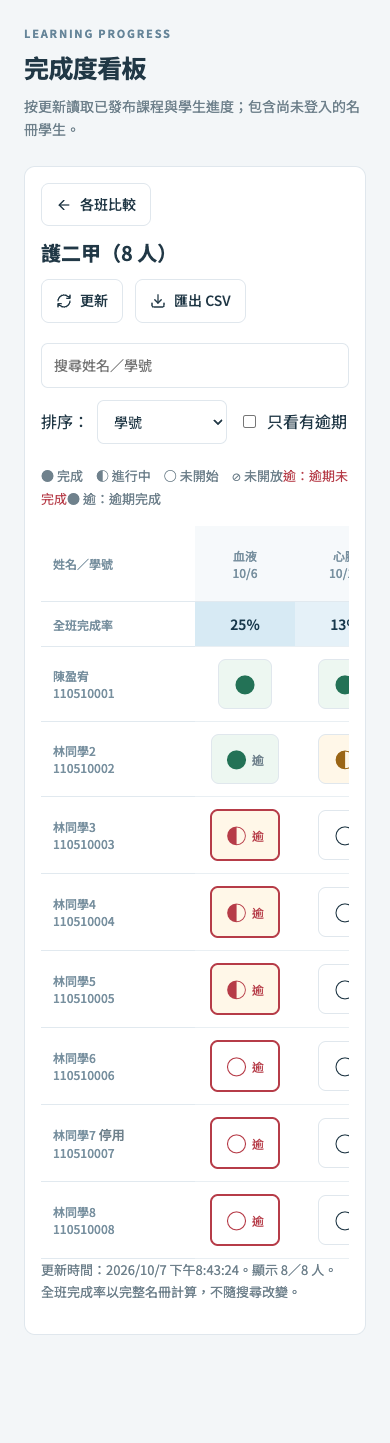
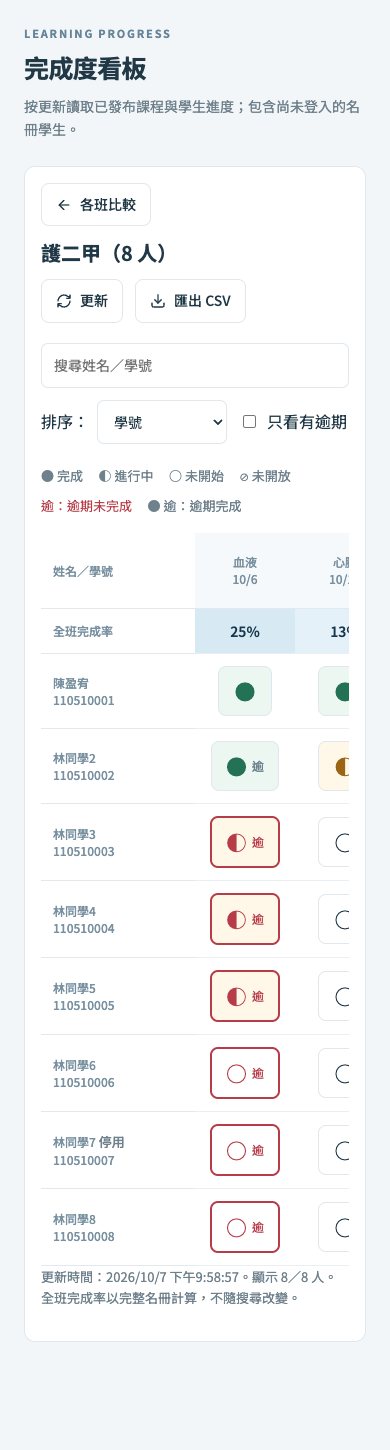
fix: 排除選看逾期並調整完成度看板間距 [Codex]

diff --git a/src/CompletionBoard.tsx b/src/CompletionBoard.tsx
@@ -469,8 +469,11 @@ export default function CompletionBoard({
               </label>
             </div>
             <p className="completion-legend">
-              ● 完成　◐ 進行中　○ 未開始　⊘ 未開放　
-              <span className="completion-overdue-label">逾：逾期未完成</span>　
+              <span>● 完成</span>
+              <span>◐ 進行中</span>
+              <span>○ 未開始</span>
+              <span>⊘ 未開放</span>
+              <span className="completion-overdue-label">逾：逾期未完成</span>
               <span className="muted">● 逾：逾期完成</span>
             </p>
             {!selected ? (
@@ -587,8 +590,8 @@ export default function CompletionBoard({
                   <section key={u.id}>
                     <h4>{u.title}</h4>
                     <p>
-                      最高分：{p?.best == null || p.best < 0 ? '尚無' : p.best}／門檻 {u.threshold}
-                      　作答 {p?.attempts || 0} 次
+                      最高分 {p?.best == null || p.best < 0 ? '尚無' : p.best}／門檻 {u.threshold}
+                      ｜作答 {p?.attempts || 0} 次
                     </p>
                     {!u.bankVersion && <p className="muted">題庫未發布，不列入測驗完成條件。</p>}
                     {!!p?.passedAt && <p>首次達標：{fullTime(p.passedAt)}</p>}

diff --git a/shared/completionBoard.ts b/shared/completionBoard.ts
@@ -31,8 +31,9 @@ export function chapterCellState(course: Course, name: string, p: Progress, now 
           : 'notStarted';
   return {
     state,
-    overdue: due < now && !result.done,
-    lateDone: result.done && units.some((u) => (p.units?.[u.id]?.passedAt || 0) > due),
+    overdue: result.eligible && due < now && !result.done,
+    lateDone:
+      result.eligible && result.done && units.some((u) => (p.units?.[u.id]?.passedAt || 0) > due),
     eligible: result.eligible,
   };
 }

diff --git a/src/style.css b/src/style.css
@@ -1914,3 +1914,5 @@ body { padding-bottom: 60px; }
   .completion-popover { width: 100%; max-width: 100%; max-height: 85vh; border-radius: 18px 18px 0 0; padding: 22px; padding-bottom: max(22px, env(safe-area-inset-bottom)); }
   .completion-popover .sectionhead h2 { min-width: 0; overflow-wrap: anywhere; }
 }
+
+.completion-legend { display: flex; flex-wrap: wrap; gap: 0.5em 1.2em; }

diff --git a/docs/COMPLETION_BOARD_1.7.1_ACCEPTANCE.md b/docs/COMPLETION_BOARD_1.7.1_ACCEPTANCE.md
@@ -13,6 +13,13 @@
 - `shared/completionBoard.ts` 的 `chapterCellState` 只做顯示；未開放但已完成仍是 done；未開放的必做單元仍在 m。完成度、班級覆寫、活動相容與最高分全部沿用原模型。
 - 後端程式、`shared/model.ts`、學生畫面、分析報表、Firestore、完成度公式版本3及 `getCompletion` 介面均未改；Functions package／lock只同步版本1.7.1。
 
+## 10/7 Claude 驗收後修正
+
+- 選看／不可計分單元不標逾期（含逾期完成）；新增回歸測試涵蓋格子、班級人數與 CSV。
+- 圖例改用分項 flex 與 gap，手機換行保留間隔。
+- 明細顯示「最高分 95／門檻 80｜作答 2 次」。
+- 重跑完整 check、兩尺寸 React 操作與 6 張截圖均通過；待 Claude 複驗。
+
 ## 一致性與測試
 
 合成資料：護二甲8人、護二乙10人；含兩個血液分類、必做互動活動、未來開放呼吸單元、選看補充、不同期限及可見性、未登入、停用、缺 passedAt、逾期完成／未完成。所有資料均為本機合成資料，未讀正式學生資料。
@@ -34,7 +41,7 @@
 
 - `chapterCellState` 測試含未開放、已完成、作答進行中、活動進行中、未開始、逾期未完成、逾期完成、無 passedAt，另測期限相等與過期1ms邊界，不改來源資料。
 - React 測試包含第一層→班級→格子明細→返回、鍵盤關閉、快取與覆寫、三種排序／逾期篩選、真實CSV下載、學生紀錄與API失敗。
-- `npm run check`：前端 **139／139**、Functions **26／26**，兩端 build、`version:check`＝1.7.1 通過；`git diff --check`通過。
+- `npm run check`：前端 **140／140**、Functions **26／26**，兩端 build、`version:check`＝1.7.1 通過；`git diff --check`通過。
 - 重跑方式：`npm run check`；`node scripts/completion-board-verify.mjs` 產生下列截圖與 `checks.json`。需要本機 Chrome。
 
 ## 截圖（已目視檢查）
@@ -51,6 +58,6 @@
 
 - 原 API 沒有名冊總人數，因此分頁中顯示「載入中：班名 N 人」，不用尚未知曉的分母；讀完後才顯示完整名冊人數。例「50／44」不能由既有回應可靠產生。
 - 各班應完成單元數可能不同；加總列平均完成採總已完成／總人數，分母採總應完成／總人數，並在畫面註明人數加權。個別班仍顯示本班整數total。
-- 不可見單元不算該欄完成率分母；選看仍顯示完成率，但不計入n/m。逾期人數依規格「至少一格 overdue」，包含有期限的選看單元，沒有另改規格成只計必做。
+- 不可見單元不算該欄完成率分母；選看仍顯示完成率，但不計入n/m。依 10/7 修正單，只有必做且 eligible 的單元判逾期；選看或不可計分單元不加逾期標記，不計入逾期人數、排序、篩選或 CSV 逾期狀態。
 - 完成與逾期時間一律用台灣時區；刷新資料時間顯示在矩陣下方。頁面不自動輪詢，實際多班／多頁讀取量仍由教師的更新操作決定。
 - 僅本機合成資料驗收；正式名冊／Firebase端到端待教師部署後確認。此報告為Codex自查，仍須Claude獨立驗收。

diff --git a/handoff.md b/handoff.md
@@ -14,8 +14,8 @@
 - 任務基底 feature/1.7.0-practice-modes＝e8805f8（先依交辦提交既有交接及兩份規格，訊息 docs: 交接更新 [Claude]）。Git 過期 index.lock 已確認無 Git 程序後清除。
 - 工作1分支 feature/respiratory-infographics：7份preview（各6節點／11題）與49張SVG、可拖曳氧解離曲線；未build、未登錄、Excel未動。教材實作依規格須等教師看畫面才commit，目前改動留本機。
 - 工作1B報告：/Users/HHC/Dropbox/耕莘/antigravity/072026 新的專案/05_review/Q3疑點研究_6題.md。Q3-28答案有爭議，其餘五題答案成立但需修解析；僅報告，未改Excel／卡片／進度，B未套入A。
-- 原子卡第四輪26張已 self_checked，QC 0 error／warn；報告位於上述外部專案05_review/midterm_cards_round4_report.md，待Claude獨立驗收；總數88 awaiting_teacher_review／41 self_checked／69 reviewed／6 blocked。right-left-main-bronchi已由教師更正核可為reviewed。
-- 工作2：feature/1.7.1-completion-board 從 e8805f8 獨立分出；工作目錄為 .worktrees/completion-board。各班比較＋學生矩陣／chapterCellState／名冊加權統計／CSV與明細完成，check139／26及兩端build通過；6張1280／390截圖與報告 docs/COMPLETION_BOARD_1.7.1_ACCEPTANCE.md，本次工作已提交（完整commit以git log -1為準），待Claude獨立驗收；工作1未納入此分支。
+- 原子卡第四輪26張已 self_checked，QC 0 error／warn；報告位於上述外部專案05_review/midterm_cards_round4_report.md，10/7三項修正完成，待Claude複驗；總數88 awaiting_teacher_review／41 self_checked／69 reviewed／6 blocked。right-left-main-bronchi已由教師更正核可為reviewed。
+- 工作2：feature/1.7.1-completion-board 從 e8805f8 獨立分出；工作目錄為 .worktrees/completion-board。各班比較＋學生矩陣／chapterCellState／名冊加權統計／CSV與明細完成，check140／26及兩端build通過；6張1280／390截圖與報告 docs/COMPLETION_BOARD_1.7.1_ACCEPTANCE.md，本次工作已提交（完整commit以git log -1為準），10/7三項修正完成，待Claude複驗；工作1未納入此分支。
 
 ## 部署方式（教師執行）
 ```sh
@@ -72,3 +72,5 @@ zsh -ilc 'source ~/.nvm/nvm.sh && nvm use 22.23.2 >/dev/null && bash ~/Documents
 - 快照INTERNAL：教師10/6決定本輪不修。下輪先查正式log；已本機重現forClass無條件research:undefined造成Firestore拒絕，需省略欄位＋真實序列化回歸測試，保留進度。
 - 未排程：passedAt首次達標後端行為測試、題目作廢重算、diagnostics.summary索引排除、firebase-functions升級、App拆檔、真實學生端到端驗收。
 - 研究前後測／等值遷移題及Google Sheet名冊、單元欄由教師提供。
+
+- 10/7修正單：選看與不可計分不判逾期，圖例間隔及明細分隔已修；新增回歸測試、check140／26及6張截圖通過。修正由本分支提交，未push／部署。

diff --git a/DEVELOPMENT_LOG.md b/DEVELOPMENT_LOG.md
@@ -1,5 +1,11 @@
 # 開發紀錄
 
+## 2026-10-07｜1.7.1 Claude 驗收後修正 [Codex]
+
+- 選看與不可計分單元排除逾期標記、人数、排序／篩選及CSV；補回歸測試。
+- 圖例分項加間距；最高分／門檻與作答次數加分隔。
+- check140／26、兩端build、版本檢查及兩尺寸截圖通過，待Claude複驗，未push／部署。
+
 目前版本：1.7.1
 
 ## 1.7.1 — 2026-10-07 完成度看板：各班比較＋學生單元矩陣 [Codex]
